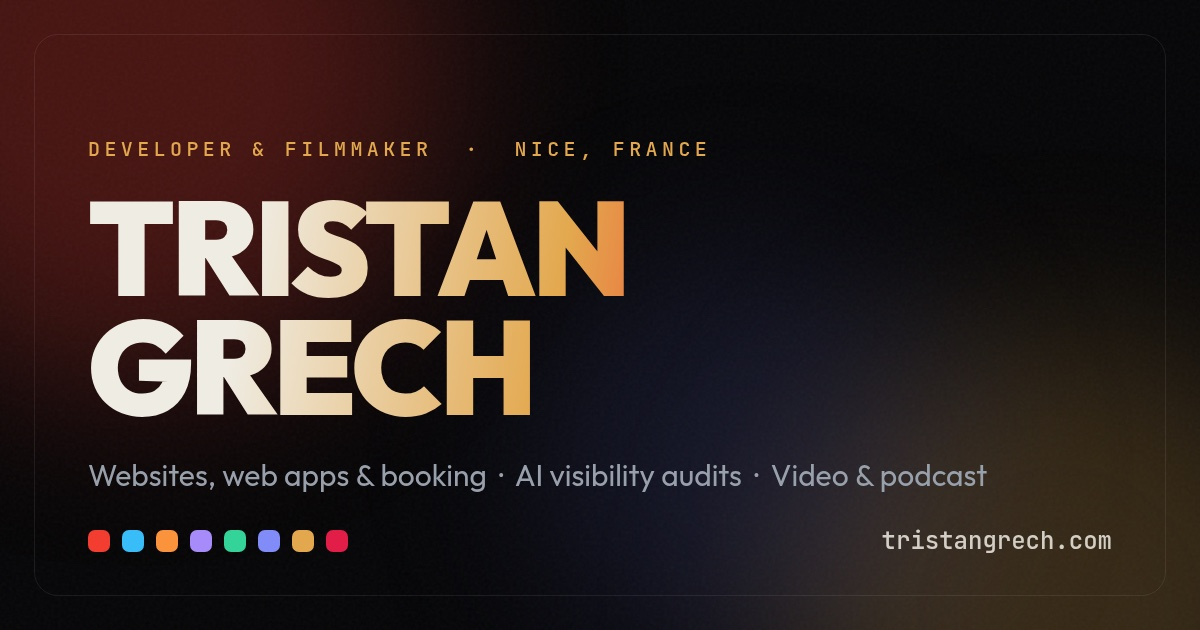
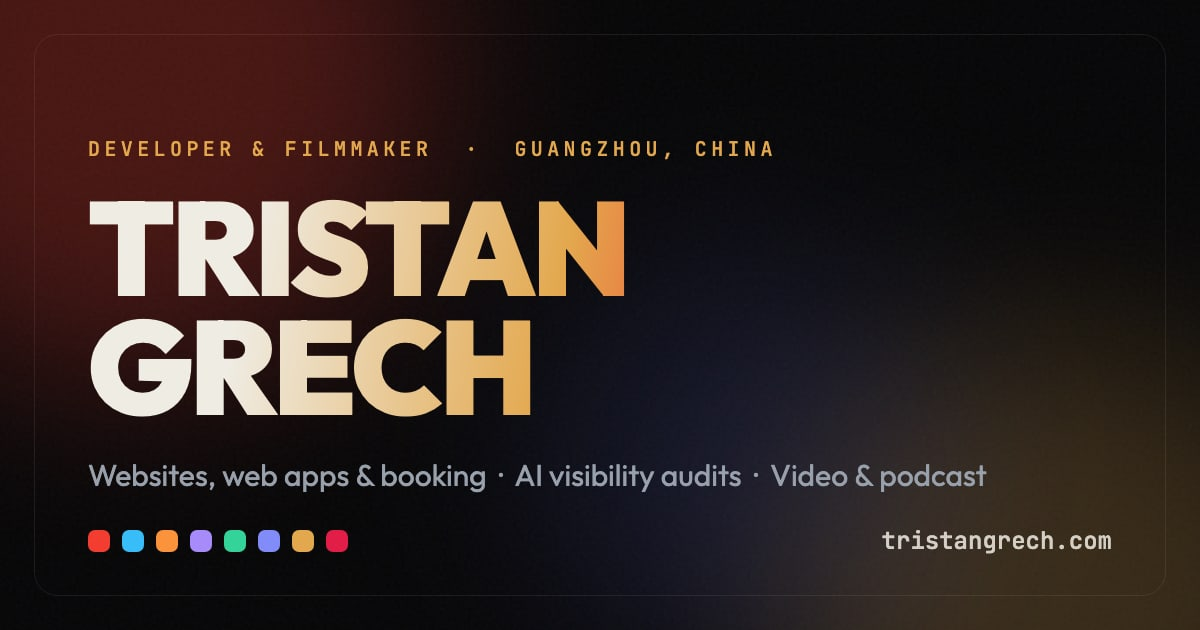
Entity follow-up: share card says Guangzhou, descriptions name the person
Adversarial verification of the ledger (REG-2, REG-3, CONTENT-5, CONTENT-6,
CONTENT-9, GEO-7, C-3, LEAD-1).

- og-card.jpg printed "NICE, FRANCE" while every alt and title said
  Guangzhou. Re-rendered from docs/og-card-template.html with the base
  changed; nothing else on the card moved.
- Hub meta descriptions start with "Tristan Grech" and fit 145 to 152
  characters (were 170, nameless).
- Person.disambiguatingDescription from facts already in the node: AI
  answers mix this Tristan Grech with a namesake footballer and engineer.
- Inter no longer preloads (its Cyrillic file was preloaded on /en and /fr);
  faces still load on demand by unicode-range.
- site.ts: base Guangzhou/China; legalName and the closed SIREN removed
  (nothing reads them; they invited reuse).
- China titles end with "| Tristan Grech" (brand truncates first).
- /landing og:image alt matches the card it now uses.

diff --git a/src/app/[locale]/layout.tsx b/src/app/[locale]/layout.tsx
@@ -19,6 +19,10 @@ const golos = Inter({
   subsets: ['latin', 'cyrillic'],
   variable: '--font-golos',
   display: 'swap',
+  // Body text is never the LCP here (the hero image is), and preloading
+  // put the Cyrillic file on /en and /fr. Faces still load on demand by
+  // unicode-range, so /ru gets Cyrillic and the others never fetch it.
+  preload: false,
 });
 
 const plexMono = JetBrains_Mono({
@@ -39,13 +43,13 @@ const metadataByLocale: Record<
   en: {
     title: 'Tristan Grech · Websites, Web Apps and Video · Guangzhou',
     description:
-      'Developer and filmmaker in Guangzhou. Multilingual websites and booking systems that Google ranks and AI assistants recommend, plus 4K video. French, English and Russian.',
+      'Tristan Grech, developer and filmmaker in Guangzhou. Multilingual websites and booking systems that Google ranks and AI assistants cite, plus 4K video.',
     ogAlt: 'Tristan Grech, developer and filmmaker, Guangzhou',
   },
   fr: {
     title: 'Tristan Grech · Sites web, applications et vidéo · Canton',
     description:
-      'Développeur et vidéaste à Canton. Sites multilingues et systèmes de réservation référencés par Google et cités par les assistants IA, plus vidéo 4K. FR, EN, RU.',
+      'Tristan Grech, développeur et vidéaste à Canton. Sites multilingues et systèmes de réservation que Google référence et que les IA citent, plus vidéo 4K.',
     ogAlt: 'Tristan Grech, développeur et vidéaste, Canton',
   },
   ru: {
@@ -53,7 +57,7 @@ const metadataByLocale: Record<
     // construction, not a stylistic break. Do not strip it.
     title: 'Тристан Греч — Сайты, веб-приложения и видео · Гуанчжоу',
     description:
-      'Разработчик и видеограф в Гуанчжоу. Многоязычные сайты и системы бронирования, которые находит Google и цитируют ИИ-ассистенты, плюс видео 4K.',
+      'Тристан Греч, разработчик и видеограф в Гуанчжоу. Многоязычные сайты и системы бронирования, которые находит Google и цитирует ИИ, плюс видео 4K.',
     ogAlt: 'Тристан Греч, разработчик и видеограф, Гуанчжоу',
   },
 };
@@ -192,6 +196,8 @@ function JsonLd({ locale }: { locale: Locale }) {
         url: `${BASE_URL}/`,
         jobTitle: 'Developer and filmmaker',
         description: ENTITY_DESCRIPTION,
+        disambiguatingDescription:
+          'French developer and filmmaker based in Guangzhou, China, who builds multilingual websites and booking systems and runs the Studio Nice Podcast studio in Nice.',
         image: `${BASE_URL}/images/tristan-homepage.jpg`,
         nationality: { '@type': 'Country', name: 'France' },
         homeLocation: {

diff --git a/src/lib/site.ts b/src/lib/site.ts
@@ -4,10 +4,10 @@
 export const site = {
   baseUrl: 'https://tristangrech.com',
   name: 'Tristan Grech',
-  legalName: 'GRECH Tristan Laurent (EI)',
-  siren: '843 305 996',
-  city: 'Nice',
-  country: 'France',
+  // Base per commit 733f366. No legal entity here: the French EI
+  // (SIREN 843 305 996) closed on 2025-12-31.
+  city: 'Guangzhou',
+  country: 'China',
   email: 'tristangrech.nat@gmail.com',
   phoneDisplay: '+33 6 78 49 61 26',
   // Bare profile link: only for the JSON-LD sameAs list. Every clickable

diff --git a/docs/og-card-template.html b/docs/og-card-template.html
@@ -41,7 +41,7 @@
   <div class="grain"></div>
   <div class="frame"></div>
   <div class="wrap">
-    <div class="eyebrow">Developer &amp; filmmaker &nbsp;·&nbsp; Nice, France</div>
+    <div class="eyebrow">Developer &amp; filmmaker &nbsp;·&nbsp; Guangzhou, China</div>
     <div class="name">Tristan<br />Grech</div>
     <div class="tag">Websites, web apps &amp; booking &nbsp;·&nbsp; AI visibility audits &nbsp;·&nbsp; Video &amp; podcast</div>
   </div>

diff --git a/src/app/(china)/china/page.tsx b/src/app/(china)/china/page.tsx
@@ -6,7 +6,8 @@ import ChinaJsonLd from '@/components/china/ChinaJsonLd';
 const BASE_URL = 'https://tristangrech.com';
 
 export const metadata: Metadata = {
-  title: chinaDict.en.meta.title,
+  // Brand last: if the title truncates, only the brand goes.
+  title: `${chinaDict.en.meta.title} | Tristan Grech`,
   description: chinaDict.en.meta.description,
   alternates: {
     canonical: `${BASE_URL}/china`,

diff --git a/src/app/(china)/chine/page.tsx b/src/app/(china)/chine/page.tsx
@@ -6,7 +6,8 @@ import ChinaJsonLd from '@/components/china/ChinaJsonLd';
 const BASE_URL = 'https://tristangrech.com';
 
 export const metadata: Metadata = {
-  title: chinaDict.fr.meta.title,
+  // Brand last: if the title truncates, only the brand goes.
+  title: `${chinaDict.fr.meta.title} | Tristan Grech`,
   description: chinaDict.fr.meta.description,
   alternates: {
     canonical: `${BASE_URL}/chine`,

diff --git a/src/app/[locale]/landing/layout.tsx b/src/app/[locale]/landing/layout.tsx
@@ -27,7 +27,7 @@ export const metadata: Metadata = {
         url: `${BASE_URL}/images/og-card.jpg`,
         width: 1200,
         height: 630,
-        alt: 'AI Voice Agent Coaching with Tristan Grech',
+        alt: 'Tristan Grech, developer and filmmaker, Guangzhou',
       },
     ],
   },
